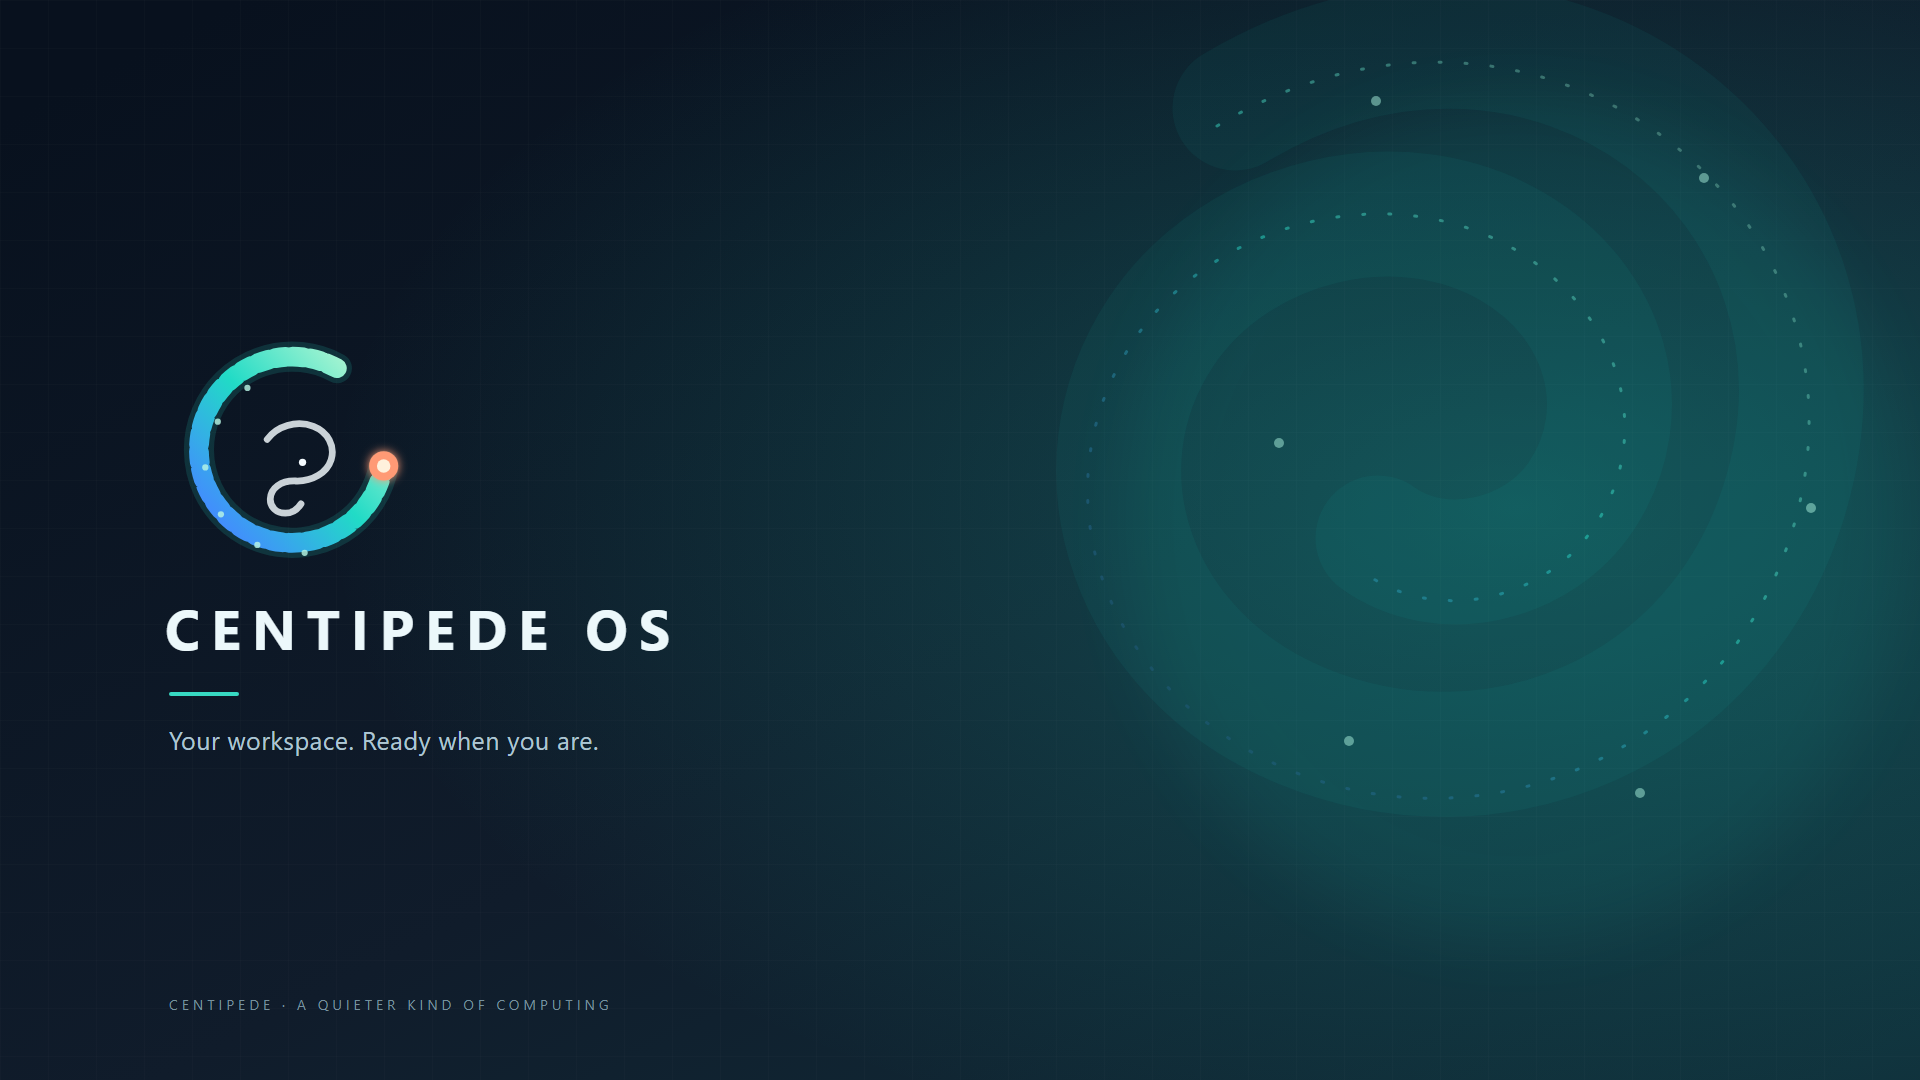
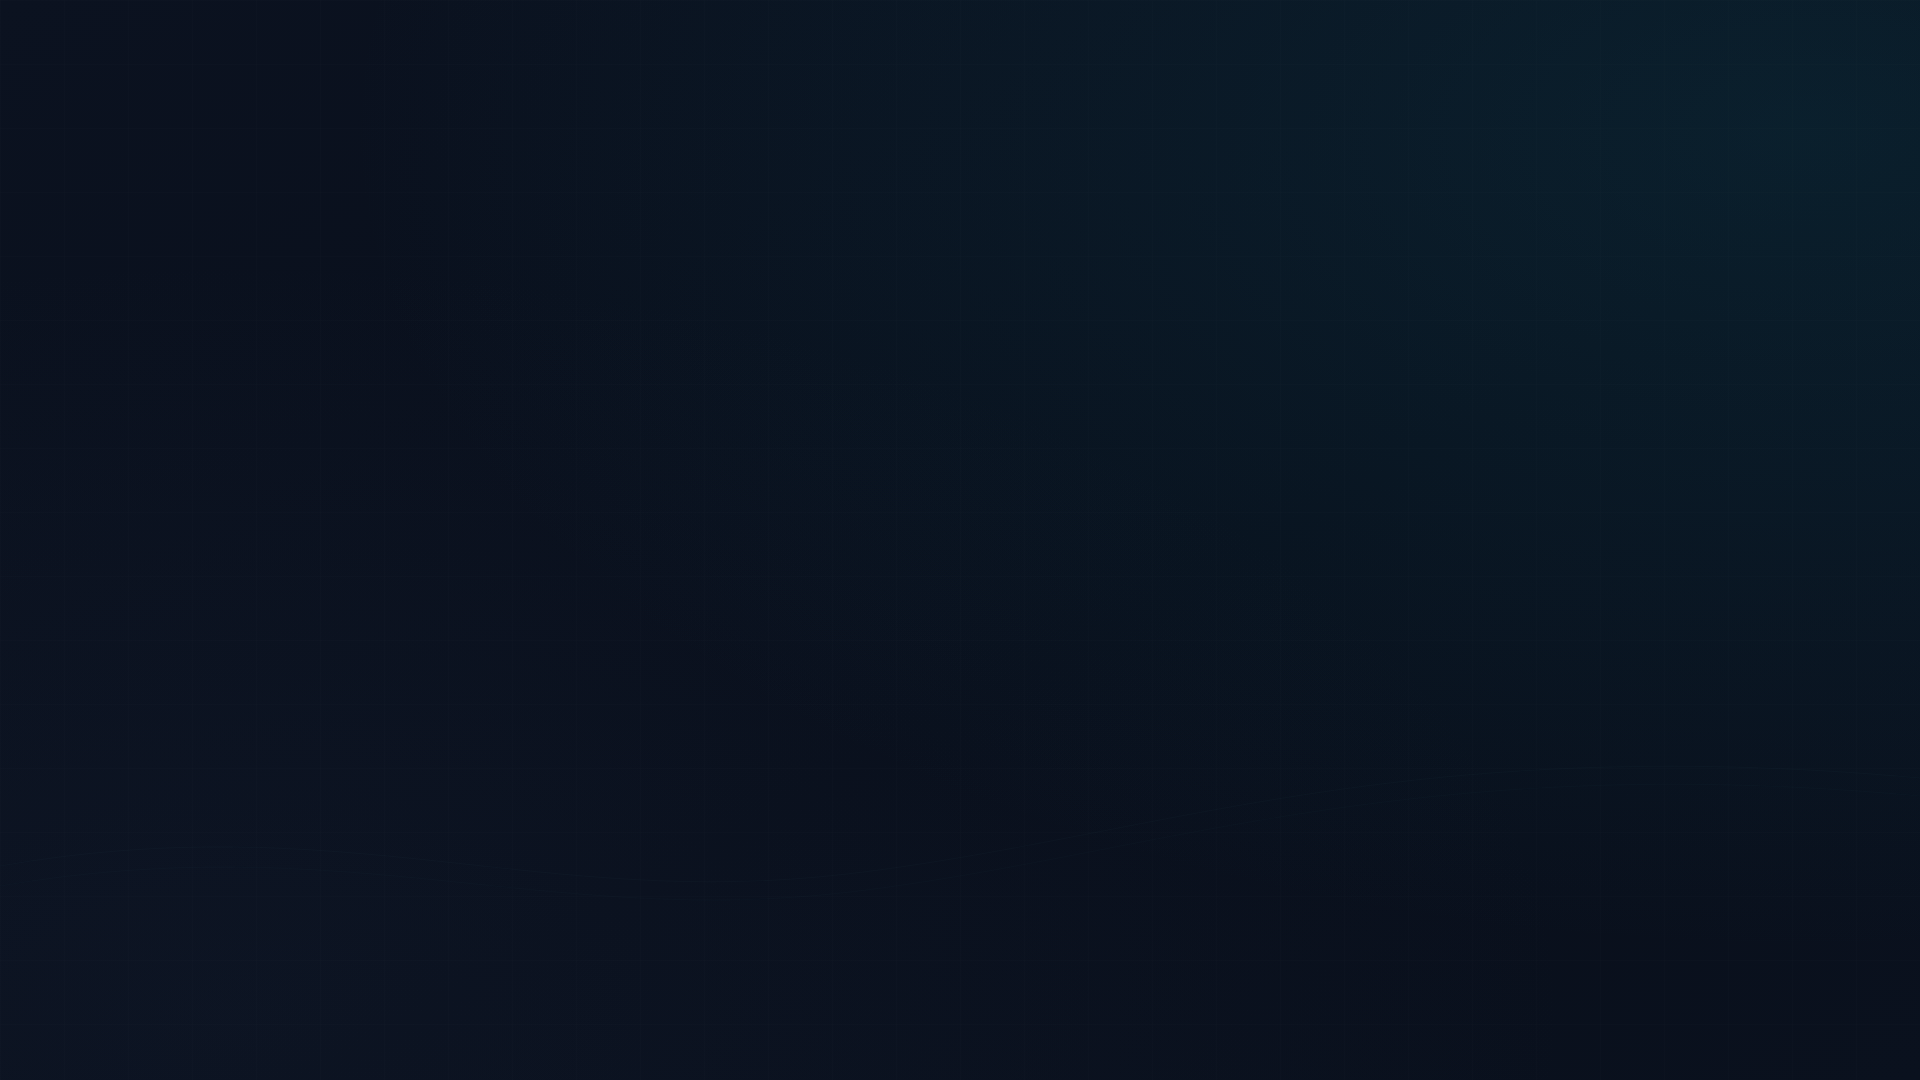
Restore classic Centipede desktop appearance

diff --git a/src/components/AppLauncher.tsx b/src/components/AppLauncher.tsx
@@ -84,15 +84,18 @@ export const AppLauncher: React.FC<AppLauncherProps> = ({
 
   return (
     <div className="mx-auto w-full max-w-6xl space-y-8 px-3 py-4 sm:px-6 sm:py-7">
-      <section aria-labelledby="desktop-heading" className="relative isolate h-[19rem] overflow-hidden rounded-2xl border border-cyan-950/70 bg-slate-950 shadow-2xl shadow-cyan-950/20 sm:h-[23rem]">
-        <CentipedeWorldVisual visual={homeVisual} quality="BALANCED" className="absolute inset-0" />
-        <div className="pointer-events-none absolute inset-0 bg-gradient-to-r from-slate-950 via-slate-950/85 to-slate-950/5" />
-        <div className="relative z-10 flex h-full max-w-xl flex-col items-start justify-center px-6 py-8 sm:px-10">
-          <p className="mb-3 flex items-center gap-2 text-[11px] font-semibold uppercase tracking-[0.22em] text-cyan-200">
-            <span className="h-px w-7 bg-cyan-300/80" /> A more capable everyday desktop
+      <section aria-labelledby="desktop-heading" className={`relative isolate min-h-[17rem] overflow-hidden rounded-2xl border shadow-2xl sm:min-h-[19rem] ${homeVisual === 'classic' ? 'border-slate-800 bg-[#080e1b] shadow-black/20' : 'border-cyan-950/70 bg-slate-950 shadow-cyan-950/20'}`}>
+        {homeVisual !== 'classic' && <>
+          <CentipedeWorldVisual visual={homeVisual} quality="BALANCED" className="absolute inset-0" />
+          <div className="pointer-events-none absolute inset-0 bg-gradient-to-r from-slate-950 via-slate-950/85 to-slate-950/5" />
+        </>}
+        {homeVisual === 'classic' && <div aria-hidden="true" className="pointer-events-none absolute inset-y-0 right-0 hidden w-1/3 bg-[radial-gradient(ellipse_at_100%_50%,rgba(31,115,133,0.14),transparent_68%)] sm:block" />}
+        <div className="relative z-10 flex min-h-[17rem] max-w-2xl flex-col items-start justify-center px-6 py-8 sm:min-h-[19rem] sm:px-10">
+          <p className="mb-3 flex items-center gap-2 text-[11px] font-semibold uppercase tracking-[0.2em] text-cyan-200">
+            <span className="h-px w-7 bg-cyan-300/80" /> Centipede OS <span className="text-slate-500">/</span> Your workspace
           </p>
           <h1 id="desktop-heading" className="max-w-lg text-3xl font-semibold leading-tight tracking-tight text-white sm:text-5xl">
-            Your day, with a little more orbit.
+            Your desktop, ready.
           </h1>
           <p className="mt-4 max-w-md text-sm leading-6 text-slate-300 sm:text-base">
             Everyday apps are close at hand. Centipede tools are here when you need a helping hand.
@@ -105,9 +108,7 @@ export const AppLauncher: React.FC<AppLauncherProps> = ({
             Open Centipede assistant
           </button>
         </div>
-        <div className="absolute bottom-4 right-4 z-10 hidden rounded-full border border-white/10 bg-slate-950/55 px-3 py-1.5 text-[11px] text-slate-300 backdrop-blur sm:block">
-          {homeVisual === 'centipede-world' ? 'Centipede + World' : homeVisual.replace('-', ' ')}
-        </div>
+        {homeVisual !== 'classic' && <div className="absolute bottom-4 right-4 z-10 hidden rounded-full border border-white/10 bg-slate-950/55 px-3 py-1.5 text-[11px] text-slate-300 backdrop-blur sm:block">{homeVisual === 'centipede-world' ? 'Centipede + World' : homeVisual.replace('-', ' ')}</div>}
       </section>
 
       <section aria-labelledby="everyday-apps-heading">

diff --git a/src/components/CentipedeWorldVisual.tsx b/src/components/CentipedeWorldVisual.tsx
@@ -2,9 +2,10 @@ import React, { useEffect, useRef } from 'react';
 
 export type VisualQuality = 'HIGH' | 'BALANCED' | 'LOW_POWER';
 export type MotionPreference = 'FULL' | 'REDUCED' | 'OFF';
-export type HomeVisual = 'centipede-world' | 'neon-dragon' | 'space-nebula' | 'abstract-orb';
+export type HomeVisual = 'classic' | 'centipede-world' | 'neon-dragon' | 'space-nebula' | 'abstract-orb';
 
 export const HOME_VISUALS: { id: HomeVisual; name: string; description: string }[] = [
+  { id: 'classic', name: 'Classic desktop', description: 'The original calm, dark Centipede workspace' },
   { id: 'centipede-world', name: 'Centipede + World', description: 'The Centipede OS signature scene' },
   { id: 'neon-dragon', name: 'Neon Dragon', description: 'A luminous creature crossing a star field' },
   { id: 'space-nebula', name: 'Space Nebula', description: 'A quiet cloud of color and distant stars' },

diff --git a/tests/reality/branding.test.ts b/tests/reality/branding.test.ts
@@ -11,4 +11,12 @@ describe('Centipede product branding', () => {
     expect(launcher).toContain('On Centipede OS, open the Applications menu');
     expect(launcher).not.toMatch(/\bDebian\b/i);
   });
+
+  it('starts with the calm classic home screen and keeps illustrated scenes optional', () => {
+    const app = readFileSync(join(root, 'src/App.tsx'), 'utf8');
+    const launcher = readFileSync(join(root, 'src/components/AppLauncher.tsx'), 'utf8');
+    expect(app).toContain("'classic'");
+    expect(launcher).toContain('Your desktop, ready.');
+    expect(launcher).toContain("homeVisual !== 'classic'");
+  });
 });

diff --git a/src/components/SettingsPanel.tsx b/src/components/SettingsPanel.tsx
@@ -73,6 +73,7 @@ export const SettingsPanel: React.FC<SettingsPanelProps> = ({ adapter, homeVisua
           {HOME_VISUALS.map((profile) => {
             const selected = homeVisual === profile.id;
             const swatch = {
+              classic: 'from-slate-950 via-slate-900 to-cyan-950',
               'centipede-world': 'from-blue-950 via-cyan-900 to-orange-500',
               'neon-dragon': 'from-fuchsia-950 via-purple-800 to-pink-400',
               'space-nebula': 'from-indigo-950 via-violet-700 to-cyan-400',

diff --git a/src/App.tsx b/src/App.tsx
@@ -34,9 +34,9 @@ export const App: React.FC = () => {
   const [homeVisual, setHomeVisual] = useState<HomeVisual>(() => {
     try {
       const saved = window.localStorage.getItem('centipede_home_visual');
-      return HOME_VISUALS.some((profile) => profile.id === saved) ? (saved as HomeVisual) : 'centipede-world';
+      return HOME_VISUALS.some((profile) => profile.id === saved) ? (saved as HomeVisual) : 'classic';
     } catch {
-      return 'centipede-world';
+      return 'classic';
     }
   });
 

diff --git a/README.md b/README.md
@@ -6,9 +6,9 @@ Centipede OS is a free desktop operating system with a custom Centipede-branded 
 
 **New to this?** Download the ISO, write it to an empty USB drive, and start the other computer from that USB. The live session does not install Centipede or replace Windows.
 
-<p><a href="https://github.com/wests-cmd/Centipede-os/releases/download/v1.0.1-rc.3/centipede-os-1.0.1-live-usb-x86_64.iso"><strong>⬇ Try the Centipede OS 1.0.1 preview for USB</strong></a></p>
+<p><a href="https://github.com/wests-cmd/Centipede-os/releases/download/v1.0.1-rc.4/centipede-os-1.0.1-live-usb-x86_64.iso"><strong>⬇ Try the Centipede OS 1.0.1 preview for USB</strong></a></p>
 
-This is a **preview release**. For the current stable download, use [Centipede OS v1.0.0](https://github.com/wests-cmd/Centipede-os/releases/tag/v1.0.0). To see every preview file, including the VM and Docker image, visit the [Centipede OS v1.0.1-rc.3 downloads page](https://github.com/wests-cmd/Centipede-os/releases/tag/v1.0.1-rc.3).
+This is a **preview release**. For the current stable download, use [Centipede OS v1.0.0](https://github.com/wests-cmd/Centipede-os/releases/tag/v1.0.0). To see every preview file, including the VM and Docker image, visit the [Centipede OS v1.0.1-rc.4 downloads page](https://github.com/wests-cmd/Centipede-os/releases/tag/v1.0.1-rc.4).
 
 **Before you start:** The USB needs at least 8 GB free. Writing the image erases the USB. Files saved during a live session may be lost when you shut down. Keep the PC’s internal drive connected and do not choose an install or erase option.
 
@@ -33,13 +33,13 @@ Use an empty USB drive with at least 8 GB free (16 GB is a comfortable choice). 
 
 If the PC does not show a boot menu, restart and try the other common key or look up “boot menu” plus the PC maker and model. Do not change Secure Boot or firmware settings as a first troubleshooting step.
 
-> **What you download:** v1.0.1-rc.3 is a custom Centipede-branded live preview. The default live option was tested in virtual machines, but the installer has not passed installation to a separate test disk, reboot, and source-media safety checks. Choose **Try Centipede / Live** only. Do not start the disk installer or use it on a real disk. The current stable release remains v1.0.0.
+> **What you download:** v1.0.1-rc.4 is a custom Centipede-branded live preview. The default live option was tested in virtual machines, but the installer has not passed installation to a separate test disk, reboot, and source-media safety checks. Choose **Try Centipede / Live** only. Do not start the disk installer or use it on a real disk. The current stable release remains v1.0.0.
 
 > **Disk installer status:** The preview contains a guided installer, but it is not certified for disk installation yet. Installation to a separate test disk, reboot, and proof that the boot USB cannot be selected as the target are still required. Do not use it to install or erase a disk.
 
 ### Centipede OS 1.0.1 preview desktop
 
-![Centipede OS 1.0.1 preview desktop, captured during the full-use browser check.](docs/images/centipede-desktop-preview.png)
+![Centipede OS 1.0.1 preview desktop with the restored classic background.](docs/images/centipede-desktop-preview.png)
 
 ## What is included
 
@@ -59,7 +59,7 @@ The operating system uses Centipede OS identity across the boot menu, startup sp
 ## Current release and target status
 
 - The current stable release is [Centipede OS v1.0.0](https://github.com/wests-cmd/Centipede-os/releases/tag/v1.0.0).
-- The custom-branded [v1.0.1-rc.3 preview](https://github.com/wests-cmd/Centipede-os/releases/tag/v1.0.1-rc.3) publishes a web bundle, hybrid live ISO, byte-identical Live USB image, QEMU optical-media image, and smoke-tested Docker image. See its release manifest and SHA-256 file for exact artifact identities and checksums.
+- The custom-branded [v1.0.1-rc.4 preview](https://github.com/wests-cmd/Centipede-os/releases/tag/v1.0.1-rc.4) publishes a web bundle, hybrid live ISO, byte-identical Live USB image, QEMU optical-media image, and smoke-tested Docker image. See its release manifest and SHA-256 file for exact artifact identities and checksums.
 - Both the stable image and preview should be treated as live-only. The preview's guided installer has not passed separate-target installation, reboot, and source-media safety checks; do not use it on a real disk.
 - Android device distribution is blocked until the protected signing key and publisher fingerprint are configured.
 - iPhone distribution is blocked until Apple distribution signing and provisioning are configured. The iOS Simulator app is not installable on an iPhone.

diff --git a/docs/BRANDING.md b/docs/BRANDING.md
@@ -1,11 +1,11 @@
 # Centipede OS visual identity
 
-The operating system's visible identity is Centipede OS across the boot menus, startup splash, login screen, desktop, and guided installer. The live environment uses a static artwork-based splash so animation or accelerated graphics are not required to show the brand.
+The operating system's visible identity is Centipede OS across the boot menus, startup splash, login screen, desktop, and guided installer. The desktop uses a calm, dark classic background, with Centipede identity carried by the boot menu, splash, login, panel, and applications. The live environment uses a static artwork-based splash so animation or accelerated graphics are not required to show the brand.
 
 | Surface | Source | Installed use |
 |---|---|---|
 | Mark | `packaging/live-build/config/includes.chroot/usr/share/backgrounds/centipede/centipede-mark.svg` | Installer and application icon |
-| Desktop | `centipede-workspace.svg` | Default XFCE wallpaper and login background |
+| Desktop | `centipede-workspace.svg` | Quiet, dark default XFCE wallpaper; product identity remains in the login, panel, and applications |
 | Boot menu | `centipede-menu.svg` | GRUB and legacy BIOS menu background |
 | Startup | `centipede-boot.svg` and `usr/share/plymouth/themes/centipede/` | Plymouth splash |
 | Installer | `etc/calamares/branding/centipede/branding.desc` | Centipede product name and logo |
